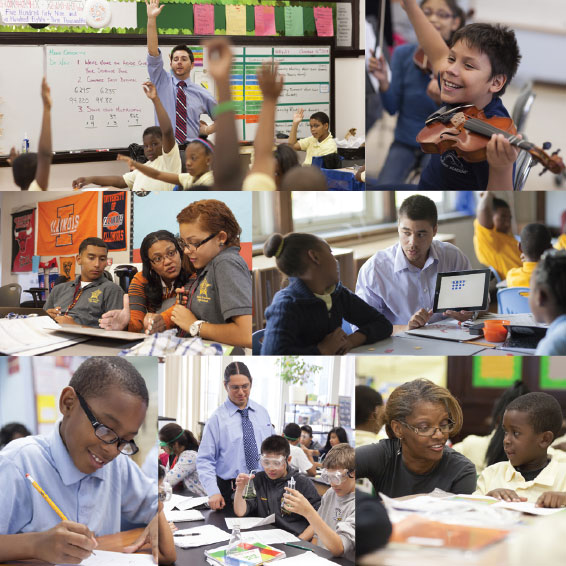
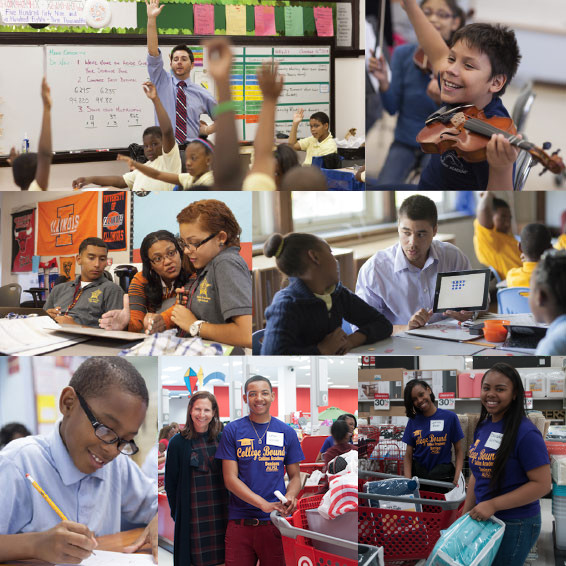
updates ausl

Changed region(s): [[0.2703, 0.6307, 1.0, 1.0]]

diff --git a/education/ausl/index.html b/education/ausl/index.html
@@ -4,14 +4,14 @@ category: edu
 title: "AUSL (Academy for Urban School Leadership) - Lefkofsky Family Foundation - Education"
 readable_name: "AUSL (Academy for Urban School Leadership)"
 link: "http://auslchicago.org/"
-thumb: "/img/education/thumbs/ausl.jpg"
+thumb: "/img/education/thumbs/ausl.png"
 image: "/img/education/ausl.jpg"
 ---
 
 <div id="overlay" class="clearfix show update">
   <div id="edu_text" class="institution_text nano">
     <div class="content">
-      <p>This year, 27 AUSL (Academy for Urban School Leadership) schools are currently participating in <a href="../success-project/">The Success Project</a> to providing support through the challenging 8th-to-9th grade transition. AUSL was founded in 2001 to improve student achievement in Chicago's lowest performing schools. At the request of Chicago Public Schools, AUSL transforms chronically failing schools by providing new leaders, teachers, staff, additional programs, and upgraded facilities. These enhancements lead to improvements in academic achievement, student engagement, and parental satisfaction. Currently AUSL serves over 18,000 students in 32 Chicago Public Schools.</p>
+      <p>AUSL was founded in 2001 to improve student achievement in Chicago's lowest performing schools. At the request of Chicago Public Schools, AUSL transforms chronically failing schools by providing new leaders, teachers, staff, additional programs and upgraded facilities. These enhancements lead to improvements in academic achievement, student engagement, and parental satisfaction. Today, AUSL has trained over 1,000 high-quality teachers, has transformed 31 schools, and currently impacts 17,000 children throughout Chicago’s South and West sides. LFF partners with AUSL as it works to boost and measure student achievement in the middle grades while providing support for a more successful 8th-to-9th grade transition. In 2017 the LFF hosted a pre-college shopping trip to help new graduates from AUSL stock their freshmen dorm rooms with basic necessities.</p>
     </div>
   </div>
   <div id="edu_image" class="institution_image">
